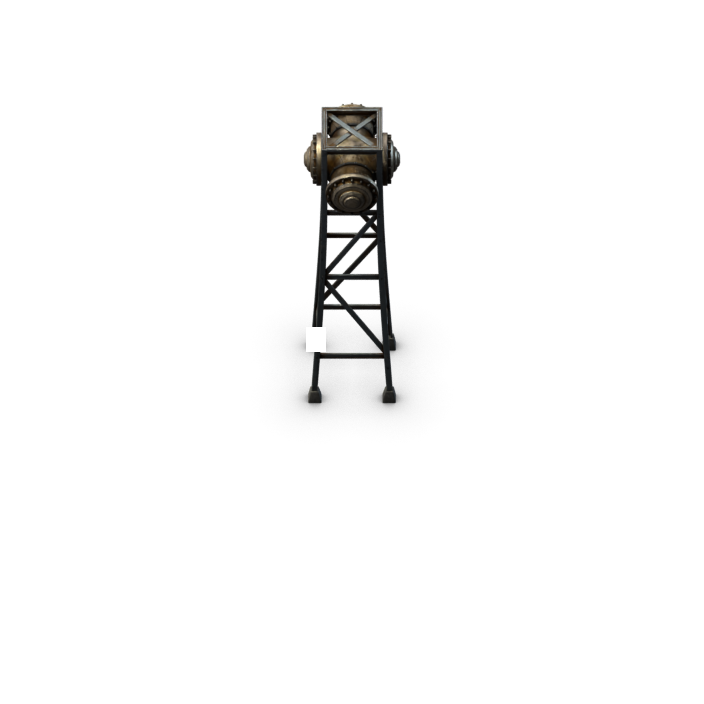
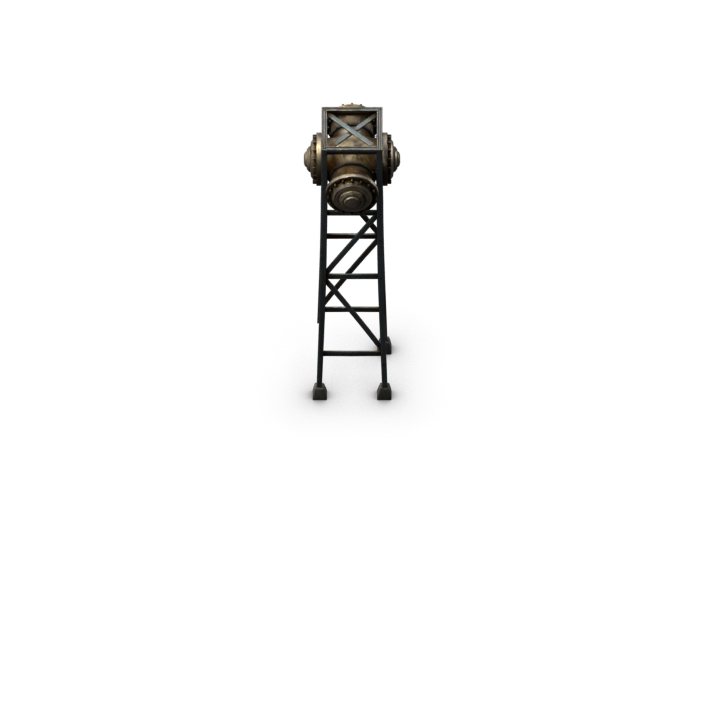
Batch 12

Changed region(s): [[0.4062, 0.3125, 0.5625, 0.5938]]

diff --git a/mods_2.0/089_pipe-pillars/import_render.php b/mods_2.0/089_pipe-pillars/import_render.php
@@ -23,6 +23,7 @@ $mapping = [
   '0011' => 'pipe-pillar-elevated-horizontal-center',
   '0012' => 'pipe-pillar-elevated-horizontal-right',
   '0013' => 'pipe-pillar-elevated-horizontal-single',
+  '0014' => 'pipe-pillar-back-left-leg',
 ];
 
 foreach($mapping as $numbered => $named)
